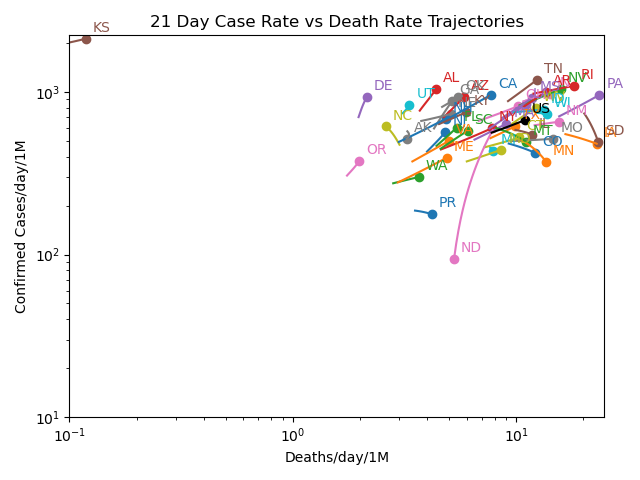
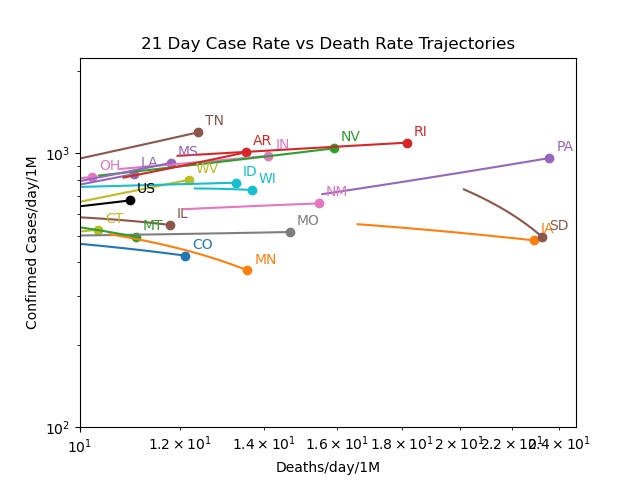
daily update

diff --git a/covid/Analysis4.py b/covid/Analysis4.py
@@ -290,7 +290,8 @@ class Analysis():
                     data[one] = (deaths[-22:], cases[-22:]) # [-22,-15,-8,-1]
         return data
             
-    def plotAllStatesRates(self, path, data, xmin=1e-1, xmax=None, ymin=1e1, ymax=None ):            
+    #def plotAllStatesRates(self, path, data, xmin=1e-1, xmax=None, ymin=1e1, ymax=None ):            
+    def plotAllStatesRates(self, path, data, xmin=10, xmax=None, ymin=1e2, ymax=None ):            
         two = dict(map(reversed, states2.items()))
         fig, ax1 = plt.subplots()
         ax1.set_title('21 Day Case Rate vs Death Rate Trajectories')

diff --git a/analysis/ANALYSIS.md b/analysis/ANALYSIS.md
@@ -1,5 +1,5 @@
 # State and Country COVID-19 Analysis #
-## Updated: at 2021-01-09 for data as of 2020-12-31 ##
+## Updated: at 2021-01-10 for data as of 2020-12-31 ##
 
 Uses the total death counts from the daily report files from the JHU CSSE COVID-19 GITHUB repository: https://github.com/CSSEGISandData/COVID-19.git.
 
